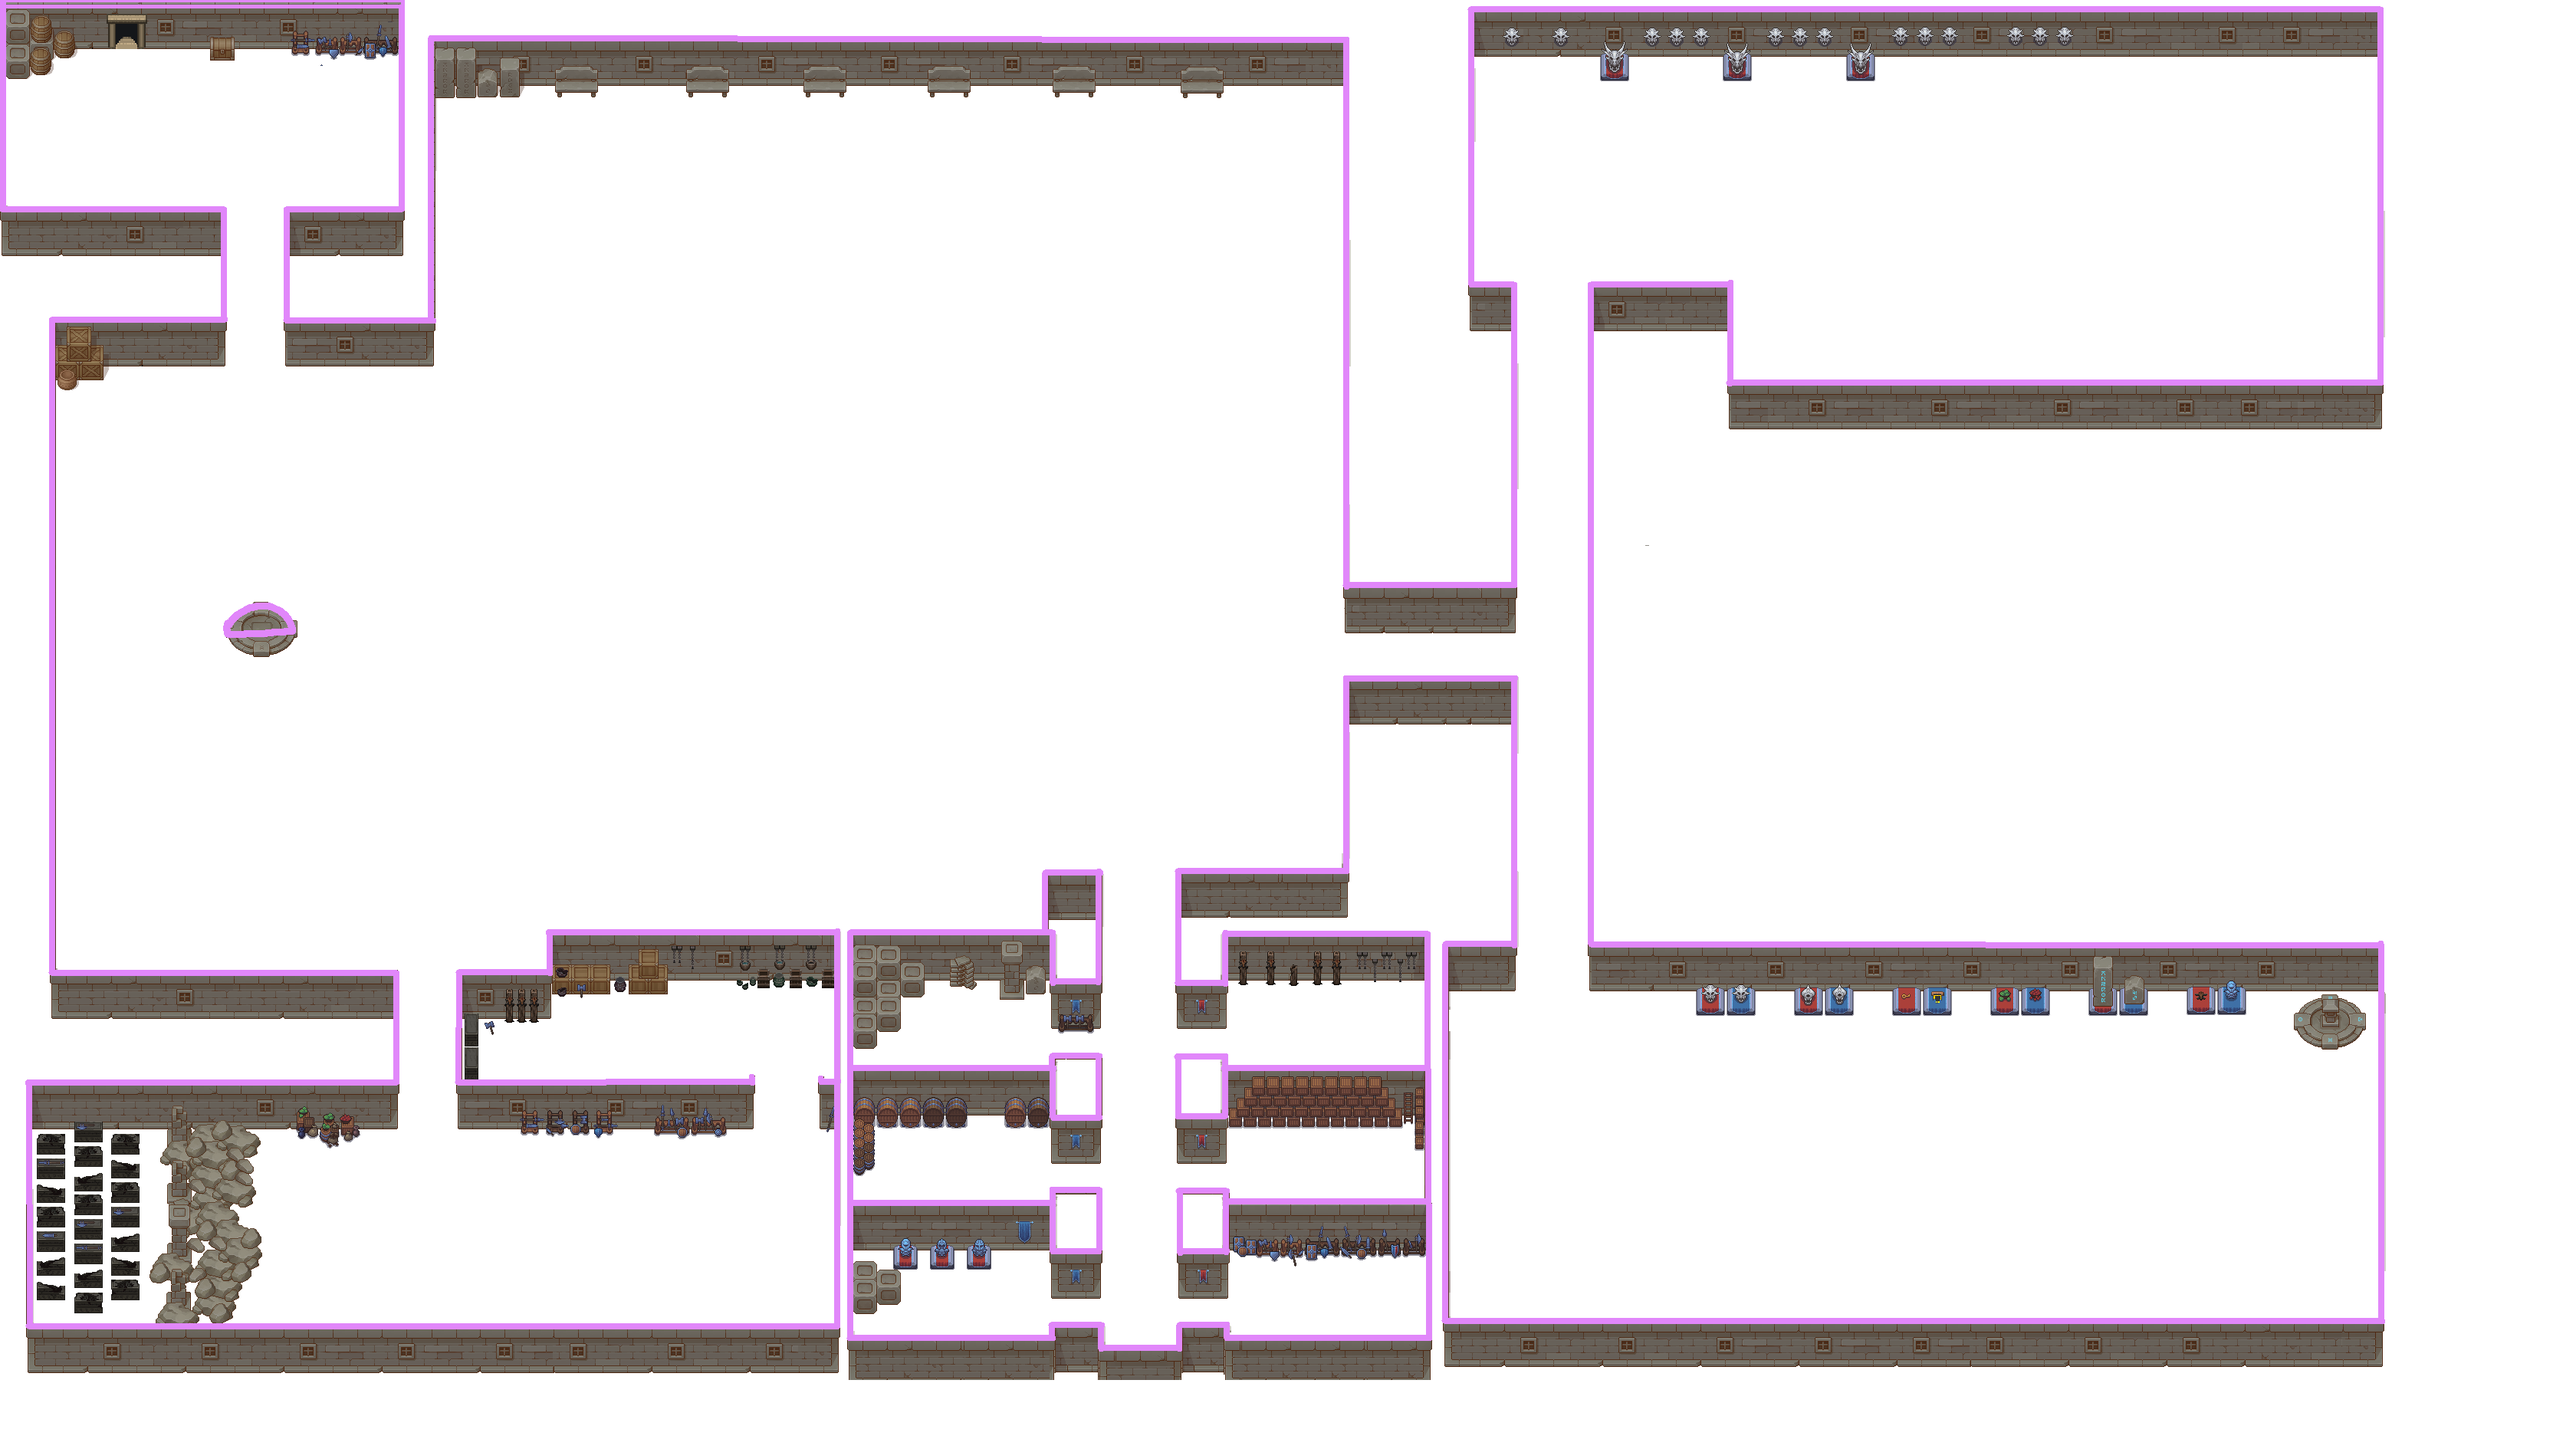
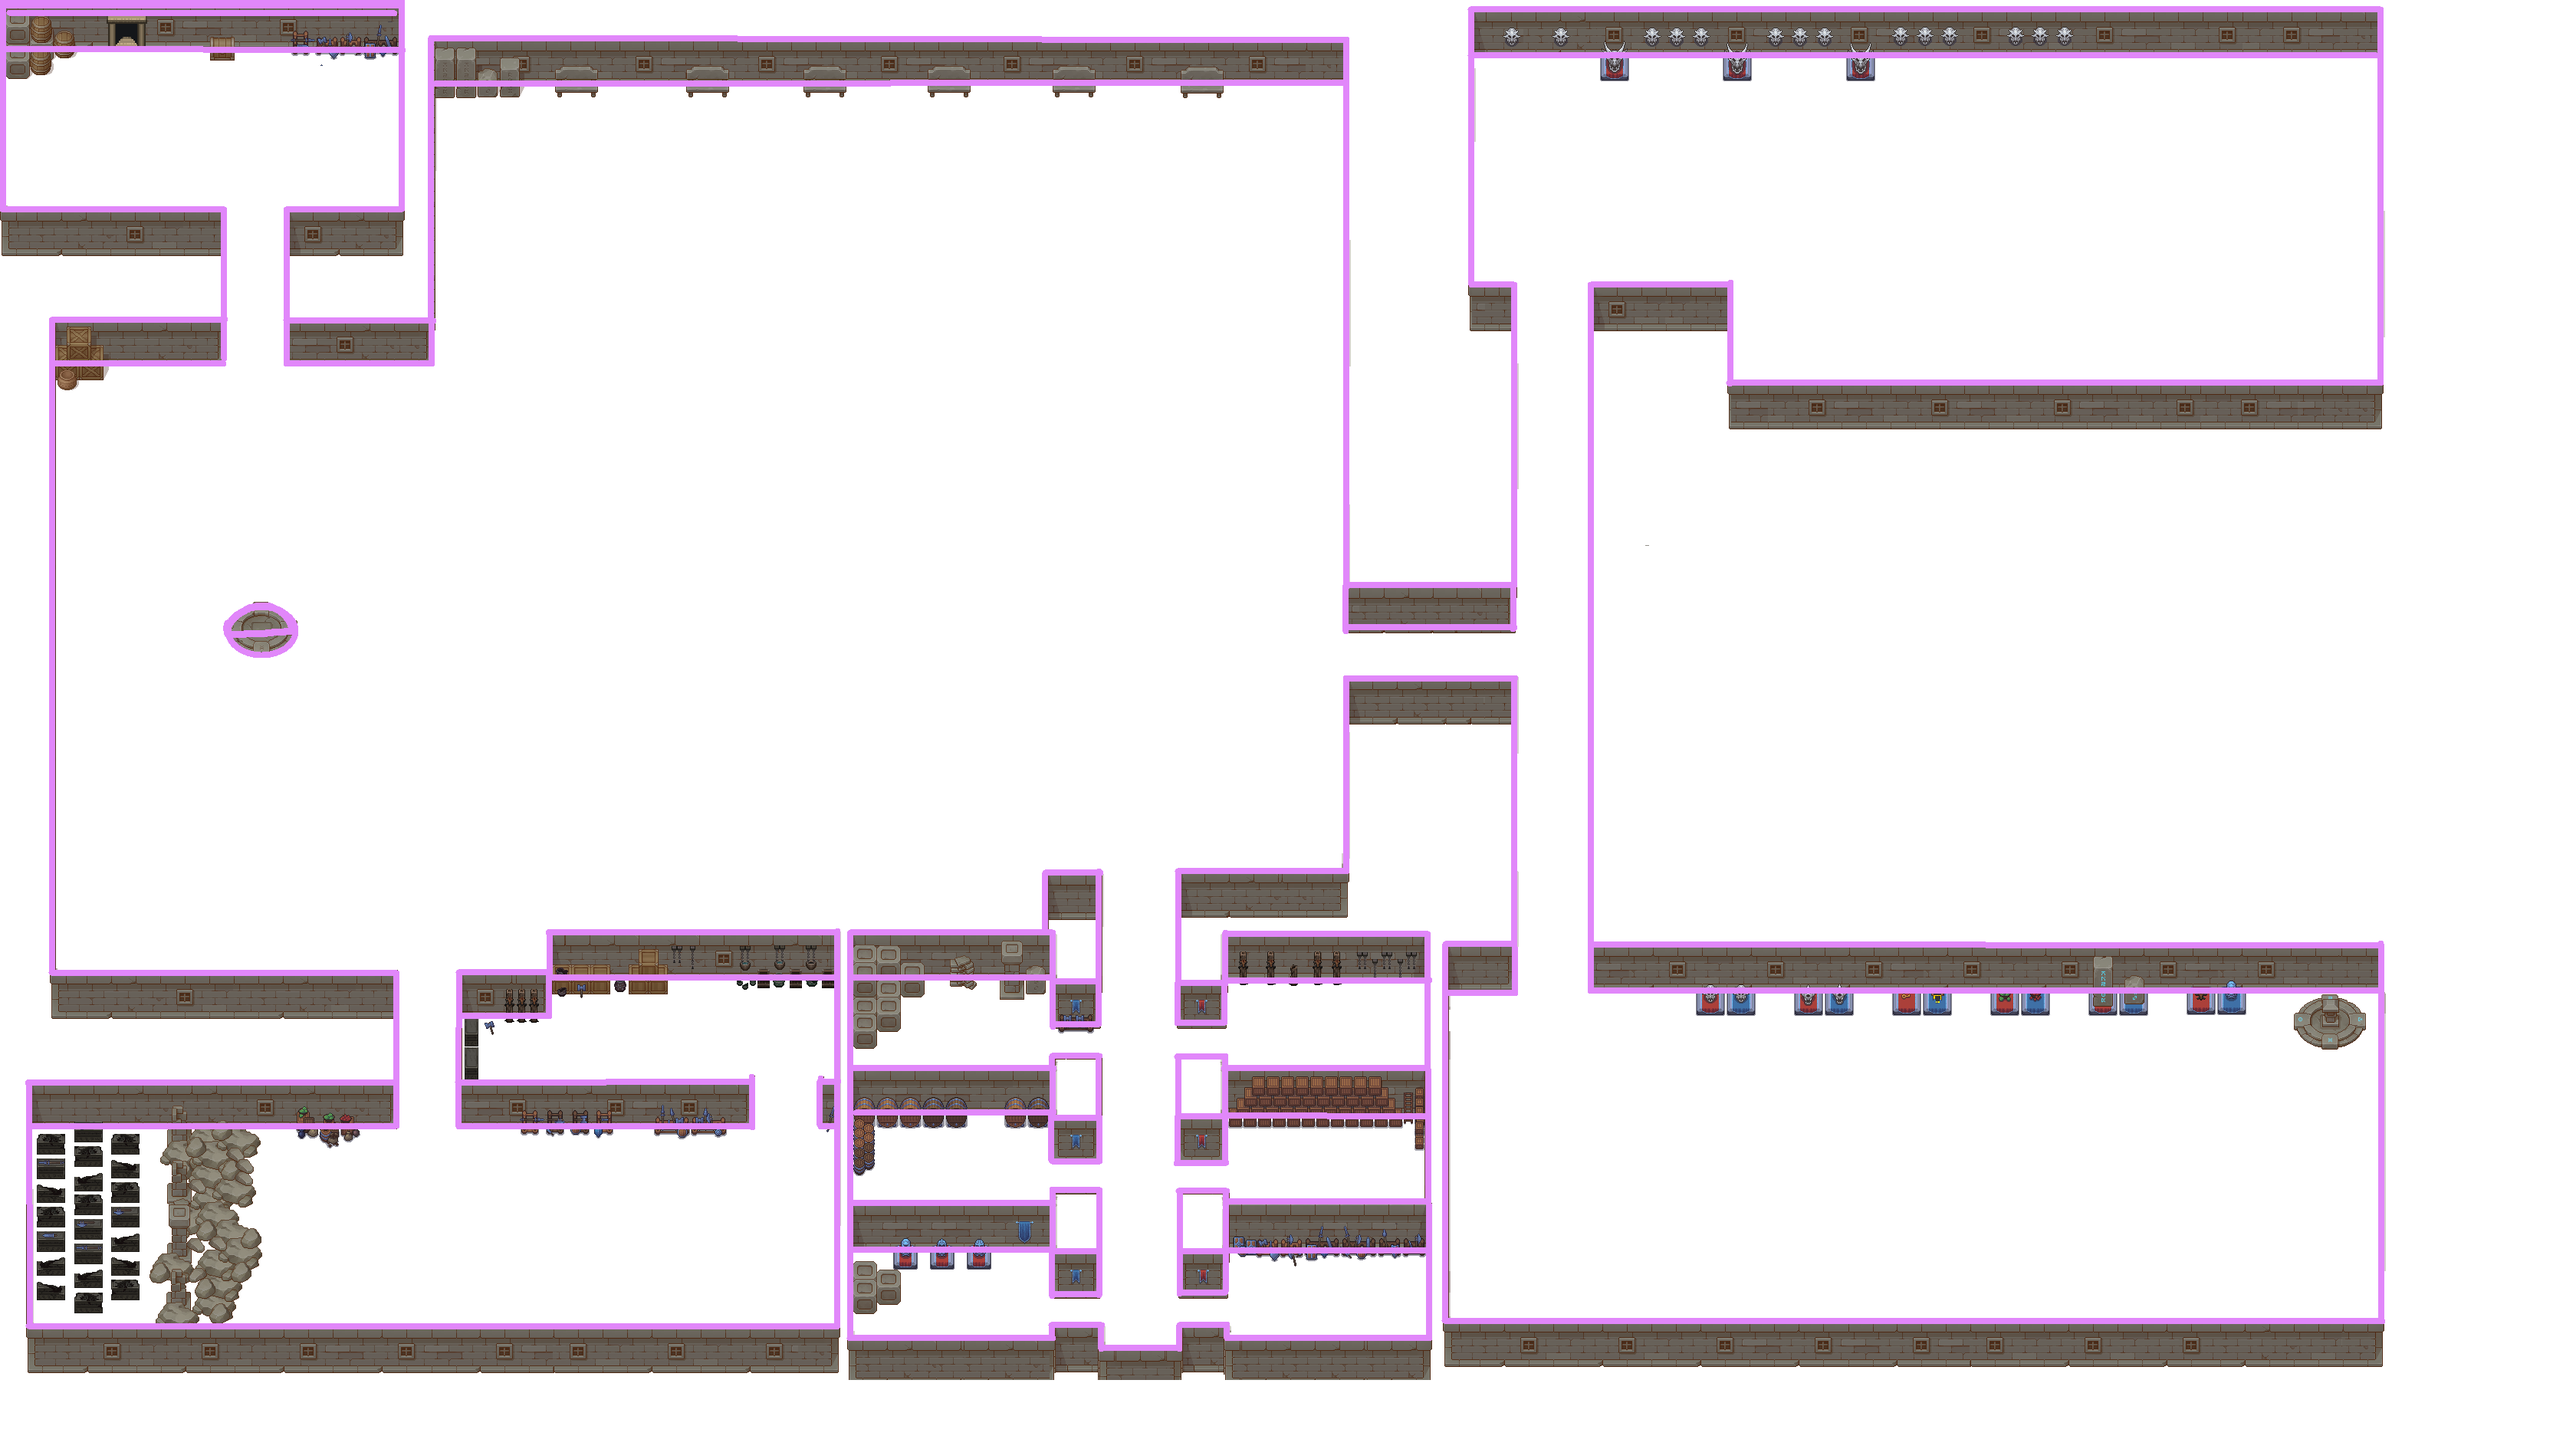
Mask move fix

diff --git a/mainTest.py b/mainTest.py
@@ -59,17 +59,38 @@ def clear(maskX, maskY): # checks if the pixel at maskX, maskY is clear (not a w
     if maskX < 0 or maskX >= mask.get_width() or maskY < 0 or maskY >= mask.get_height():
         return False
     else:
-        return mask.get_at((maskX, maskY)) != WALL
+        return mask.get_at((int(maskX), int(maskY))) != WALL
 
-def moveCharacter(sprite, x, y): # moves the character by x and y. Checks for walls
-    if keys[K_w] and clear(sprite[HITBOX].centerx + x, sprite[HITBOX].centery + y - 7):
-        y -= 2
-    if keys[K_s] and clear(sprite[HITBOX].centerx + x, sprite[HITBOX].centery + 7 + y):
-        y += 2
-    if keys[K_a] and clear(sprite[HITBOX].centerx + x - 7, sprite[HITBOX].centery + y):
-        x -= 2
-    if keys[K_d] and clear(sprite[HITBOX].centerx + x + 7, sprite[HITBOX].centery + y):
-        x += 2
+def moveCharacter(sprite, X, Y): # moves the character by x and y. Checks for walls
+    x, y = 0, 0  # Initialize movement variables
+    if keys[K_w] and clear(sprite[HITBOX].centerx + X, sprite[HITBOX].bottom + Y - 7):
+        y -= 2  # Move up by 2 pixels
+    if keys[K_s] and clear(sprite[HITBOX].centerx + X, sprite[HITBOX].bottom + 7 + Y):
+        y += 2  # Move down by 2 pixels
+    if keys[K_a] and clear(sprite[HITBOX].centerx + X - 7, sprite[HITBOX].bottom + Y):
+        x -= 2 # Move left by 2 pixels
+        sprite[FLIPPED] = True  # Set flipped to False if moving right
+    if keys[K_d] and clear(sprite[HITBOX].centerx + X + 7, sprite[HITBOX].bottom + Y):
+        x += 2 # Move right by 2 pixels
+        sprite[FLIPPED] = False  # Set flipped to True if moving left
+    
+    if x == 0 and y == 0:  # If no movement keys are pressed
+        stop(sprite)
+    elif keys[K_LSHIFT]:  # If sprinting, increase speed
+        x *= 1.5
+        y *= 1.5
+        changeMove(sprite, 'Run')
+    else:
+        changeMove(sprite, 'Walk')
+    moveScene(x, y)
+    X += x  # Update the character's position
+    Y += y
+    return X, Y
+
+def moveScene(x, y):
+    for enemy in sprites[1:]:
+        enemy[HITBOX].x -= x
+        enemy[HITBOX].y -= y
     return x, y
 
 def move(sprite, x, y): # moves the character by x and y. Sets FLIPPED flag. handles sprinting
@@ -113,7 +134,7 @@ def updateSprite(sprite): # updates the sprite's frame (and move for attacks)
     current = sprite[MOVES][sprite[MOVE]] # name of current move
 
     if 'Attack' in current or current == 'Hurt': # if they just did an attack
-        sprite[FRAME] += 0.15 # updates frame
+        sprite[FRAME] += 0.25 # updates frame
         if sprite[FRAME] >= len(sprite[PICS][sprite[MOVE]]):
             sprite[FRAME] = 0 # reset frames
             sprite[MOVE] = sprite[MOVES].index('Idle') # set them back to idle
@@ -140,11 +161,11 @@ def drawSprite(sprite):
     draw.rect(screen, (0,0,0), sprite[HITBOX], 1)  # Draw hitbox for debugging
     screen.blit(flipped(sprite, pic), (sprite[HITBOX].centerx - pic.get_width() // 2  , sprite[HITBOX].centery - pic.get_height() // 2))
 
-def drawScene():
+def drawScene(screen, x, y):
     ''' As always, ALL drawing happens here '''
     screen.blit(mapp, (-x, -y))
-    draw.circle(screen, (255, 0, 0), (800, 450), 5)  # Draw a red circle at the center for reference
-    display.flip()  # Update the display
+    # draw.circle(screen, (255, 0, 0), (800, 450), 5)  # Draw a red circle at the center for reference
+    # display.flip()  # Update the display
 
 def getDist(sprite1, sprite2):
     dx = sprite2[HITBOX].centerx - sprite1[HITBOX].centerx
@@ -198,8 +219,8 @@ mask = image.load("Images/Maps/mask.png")
 mapp = image.load("Images/Maps/map.png")
 WALL = (225,135,250,255)
 
-x = 10
-y = 55
+mapx = 10
+mapy = 55
 
 frame = 0
 running = True
@@ -220,12 +241,12 @@ while running:
             ku = True
     mb = mouse.get_pressed()
     keys = key.get_pressed()
-    screen.fill((255,255,255))
-    drawScene()  # Draw the background and mask
+    screen.fill(0)
+    drawScene(screen, mapx, mapy)  # Draw the background and mask
 
     playerShield(sprites[0])
 
-    moveCharacter(sprites[0], x, y)  # Move the player character based on input
+    mapx, mapy = moveCharacter(sprites[0], mapx, mapy)  # Move the player character based on input
 
     if ku and keys[K_d] == False and keys[K_a] == False and keys[K_w] == False and keys[K_s] == False:
         stop(sprites[0])
@@ -255,14 +276,14 @@ while running:
                     if enemy[HEALTH] > 25:
                         move(enemy, dx / d * 1.5, dy / d * 1.5)
                 elif d < 40:
-                    if mill % 1500 < 500:  # Attack every second
+                    if mill % 2000 < 250:  # Attack every second
                         doAttack(enemy, 'Attack_1', 15, 30)
                 else:
                     stop(enemy)
         updateSprite(enemy)
 
     updateSprite(sprites[0])
-
+    
     if len(sprites) < 11:  # Limit the number of enemies
         generateEnemy()
     # print(sprites[0][SHIELD])
